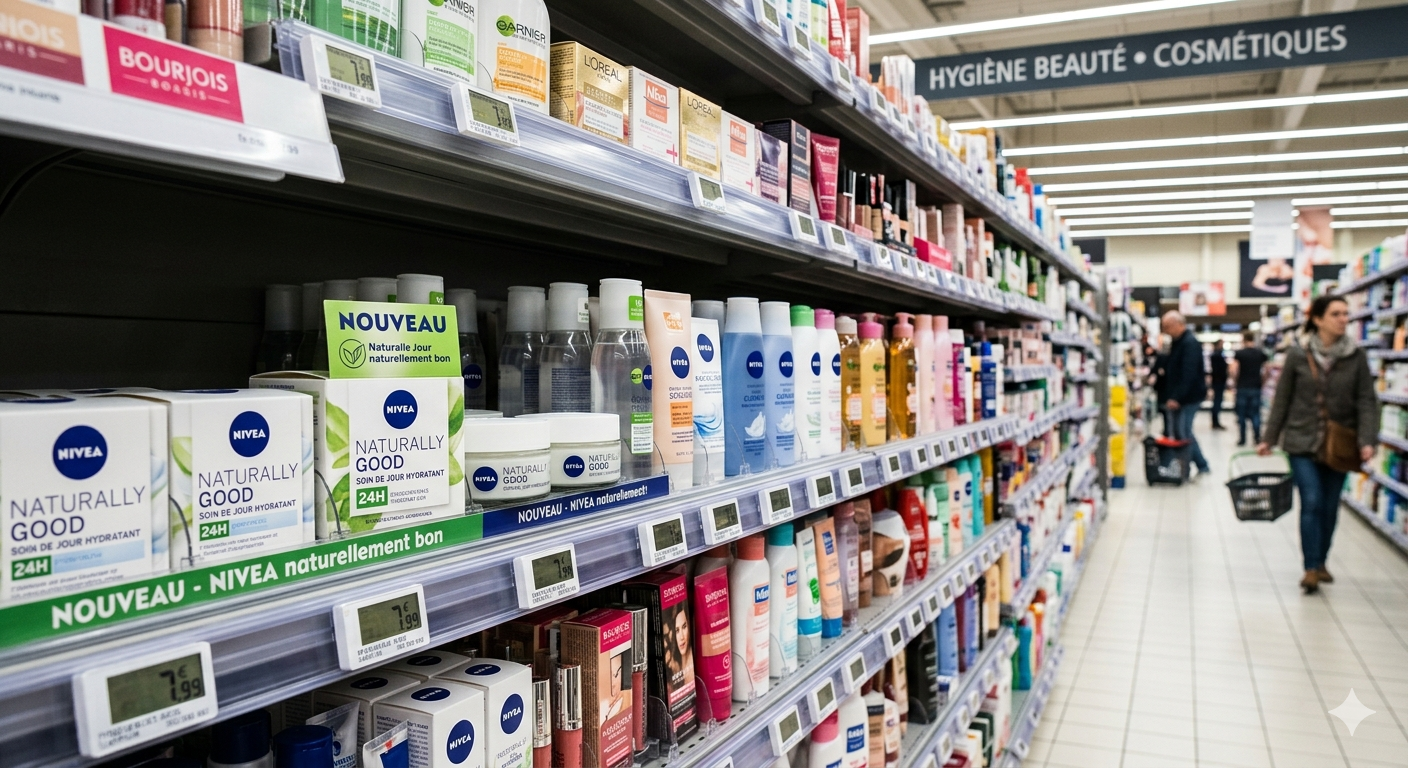
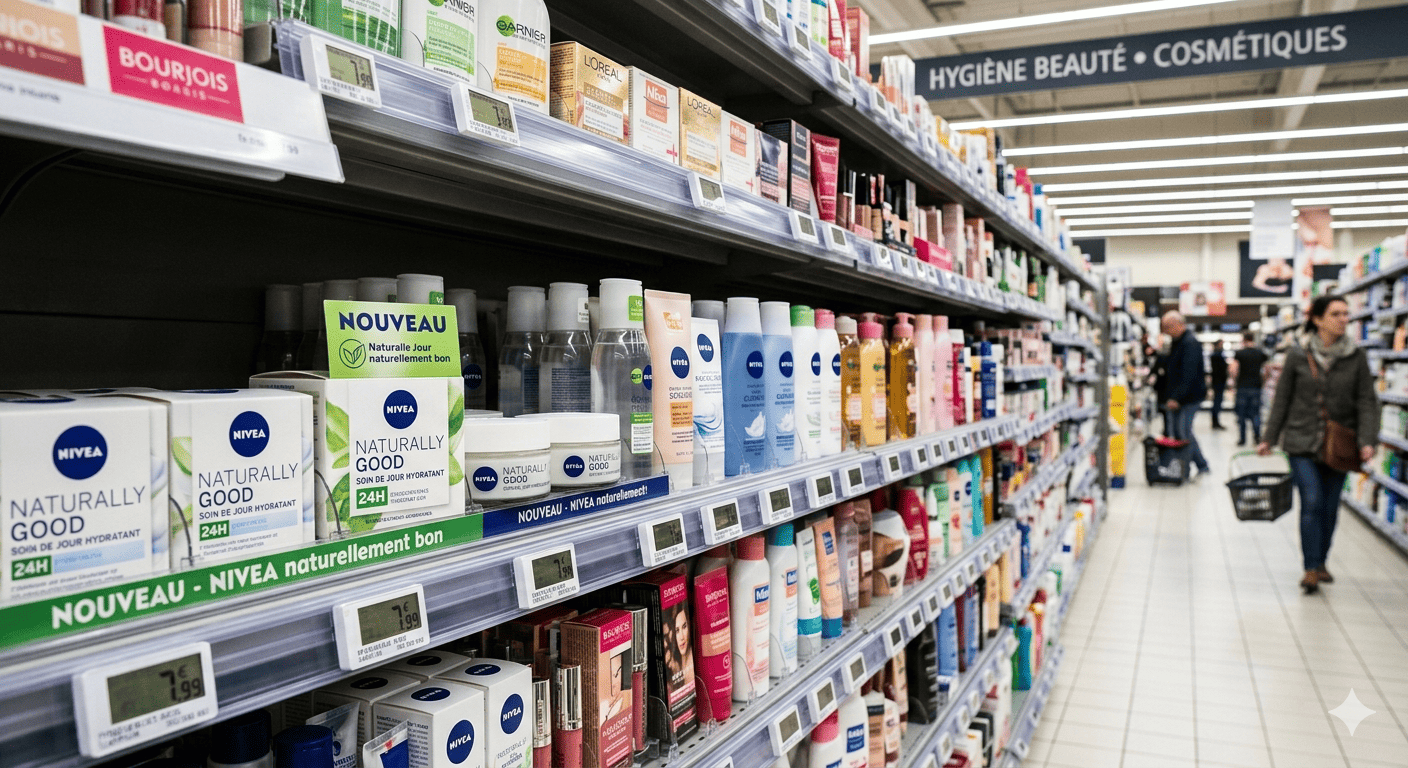
UX/recruteur — LinkedIn, CTA CV, stats, aperçu, print, mobile, compression
- 3 pages : LinkedIn dans nav + footer, URL corrigée (hugo-moronval)
- index : bouton "Voir mon CV →" dans le hero + bande de stats chiffrées
- cv : bouton "Télécharger PDF" (window.print) + CSS @media print
- portfolio : aperçu des 5 réalisations en haut + responsive cosmo/rois-visual
- home/index : noindex pour éviter le doublon SEO
- cosmo-rayon.png compressé : 2,4Mo → 600Ko

https://claude.ai/code/session_01KkrzKZNJX2gpPFfacQACqm

diff --git a/portfolio.html b/portfolio.html
@@ -545,7 +545,10 @@ body {
   .case-band { margin: -64px -24px 48px -24px; padding: 40px 24px; }
   .case-band-bg-text { font-size: 28vw; }
   .case-stats-row { flex-wrap: wrap; }
+  .cosmo-visual, .rois-visual { grid-template-columns: 1fr; }
+  .cosmo-photo-slot, .rois-photo-slot { min-height: 240px; }
   .case-items-grid, .skills-grid, .refs-grid { grid-template-columns: 1fr; }
+  .skills-grid .skill-block[style*="span 2"] { grid-column: span 1; }
   .ba-wrap { grid-template-columns: 1fr; }
   .ba-arrow-col { display: none; }
   .steps-grid { grid-template-columns: 1fr; }
@@ -572,6 +575,7 @@ body {
     <a href="index.html" class="nav-link">Accueil</a>
     <a href="cv.html" class="nav-link">CV Digital</a>
     <a href="portfolio.html" class="nav-link active">Portfolio</a>
+    <a href="https://www.linkedin.com/in/hugo-moronval/" class="nav-link" target="_blank" rel="noopener">LinkedIn</a>
     <a href="mailto:moronval.hugo@gmail.com" class="nav-link">Contact</a>
   </div>
   <div class="nav-status">
@@ -621,6 +625,38 @@ body {
     <span class="ticker-item">Management d'équipe <span>·</span></span>
     <span class="ticker-item">Identité visuelle <span>·</span></span>
     <span class="ticker-item">Campagnes omnicanales <span>·</span></span>
+  </div>
+</div>
+
+<!-- ══ APERÇU ══ -->
+<div style="padding:48px 48px 0;border-bottom:1px solid var(--border);">
+  <div style="font-size:10px;font-weight:600;letter-spacing:4px;text-transform:uppercase;color:var(--accent);margin-bottom:24px;">Réalisations · En un coup d'œil</div>
+  <div style="display:grid;grid-template-columns:repeat(5,1fr);gap:2px;margin-bottom:0;">
+    <div style="padding:24px 20px;background:var(--surface);border:1px solid var(--border);">
+      <div style="font-size:10px;font-weight:600;letter-spacing:2px;color:var(--ink3);margin-bottom:8px;">03 · 2012–2019</div>
+      <div style="font-family:'Bricolage Grotesque',sans-serif;font-weight:800;font-size:16px;text-transform:uppercase;margin-bottom:6px;">Cosmogroup</div>
+      <div style="font-size:12px;color:var(--ink2);">Brand Manager Europe · 7 ans</div>
+    </div>
+    <div style="padding:24px 20px;background:var(--surface);border:1px solid var(--border);">
+      <div style="font-size:10px;font-weight:600;letter-spacing:2px;color:var(--ink3);margin-bottom:8px;">04 · 2019–2023</div>
+      <div style="font-family:'Bricolage Grotesque',sans-serif;font-weight:800;font-size:16px;text-transform:uppercase;margin-bottom:6px;">HPC Adlis</div>
+      <div style="font-size:12px;color:var(--ink2);">Direction Mkg & Commercial</div>
+    </div>
+    <div style="padding:24px 20px;background:var(--surface);border:1px solid var(--border);">
+      <div style="font-size:10px;font-weight:600;letter-spacing:2px;color:var(--ink3);margin-bottom:8px;">05 · 2020–2025</div>
+      <div style="font-family:'Bricolage Grotesque',sans-serif;font-weight:800;font-size:16px;text-transform:uppercase;margin-bottom:6px;">Les 3 Rois</div>
+      <div style="font-size:12px;color:var(--ink2);">Co-gérant · P&amp;L &amp; Marque</div>
+    </div>
+    <div style="padding:24px 20px;background:var(--surface);border:1px solid var(--border);">
+      <div style="font-size:10px;font-weight:600;letter-spacing:2px;color:var(--ink3);margin-bottom:8px;">06 · 2023–2024</div>
+      <div style="font-family:'Bricolage Grotesque',sans-serif;font-weight:800;font-size:16px;text-transform:uppercase;margin-bottom:6px;">Carré Rond</div>
+      <div style="font-size:12px;color:var(--ink2);">Directeur d'agence</div>
+    </div>
+    <div style="padding:24px 20px;background:var(--surface);border:1px solid var(--border);">
+      <div style="font-size:10px;font-weight:600;letter-spacing:2px;color:var(--ink3);margin-bottom:8px;">06b · 2021–2022</div>
+      <div style="font-family:'Bricolage Grotesque',sans-serif;font-weight:800;font-size:16px;text-transform:uppercase;margin-bottom:6px;">EPSI</div>
+      <div style="font-size:12px;color:var(--ink2);">Resp. Entreprises · École</div>
+    </div>
   </div>
 </div>
 
@@ -1289,7 +1325,7 @@ body {
         </div>
         <div class="contact-row">
           <span class="contact-label">LinkedIn</span>
-          <a href="https://www.linkedin.com/in/hugomoronval" target="_blank" rel="noopener" class="contact-value">Hugo Moronval</a>
+          <a href="https://www.linkedin.com/in/hugo-moronval/" target="_blank" rel="noopener" class="contact-value">Hugo Moronval</a>
         </div>
         <div class="contact-row">
           <span class="contact-label">Localisation</span>
@@ -1311,6 +1347,7 @@ body {
   <nav class="footer-nav">
     <a href="index.html" class="footer-link">Accueil</a>
     <a href="cv.html" class="footer-link">CV Digital</a>
+    <a href="https://www.linkedin.com/in/hugo-moronval/" class="footer-link" target="_blank" rel="noopener">LinkedIn</a>
     <a href="mailto:moronval.hugo@gmail.com" class="footer-link">Contact</a>
   </nav>
   <div class="footer-year">© 2026</div>

diff --git a/index.html b/index.html
@@ -330,6 +330,18 @@ body:has(.card:hover) .cursor-ring { width: 64px; height: 64px; opacity: 1; }
   letter-spacing: 3px;
 }
 
+/* ══ STATS STRIP ══ */
+.stats-strip { display: flex; border-bottom: 1px solid var(--border); }
+.stat-item { flex: 1; padding: 32px 40px; border-right: 1px solid var(--border); }
+.stat-item:last-child { border-right: none; }
+.stat-num { font-family: 'Bricolage Grotesque', sans-serif; font-weight: 800; font-size: clamp(28px, 3.5vw, 48px); color: var(--ink); line-height: 1; margin-bottom: 8px; }
+.stat-num span { color: var(--accent); }
+.stat-lbl { font-size: 10px; font-weight: 500; letter-spacing: 2px; text-transform: uppercase; color: var(--ink3); }
+
+/* ══ HERO CTA ══ */
+.hero-cta { display: inline-flex; align-items: center; gap: 10px; font-size: 11px; font-weight: 600; letter-spacing: 2px; text-transform: uppercase; color: var(--black); background: var(--accent); text-decoration: none; padding: 14px 28px; margin-top: 28px; transition: background .3s, color .3s; }
+.hero-cta:hover { background: var(--ink); color: var(--bg); }
+
 @keyframes ticker {
   from { transform: translateX(0); }
   to { transform: translateX(-50%); }
@@ -731,6 +743,7 @@ body:has(.card:hover) .cursor-ring { width: 64px; height: 64px; opacity: 1; }
   <div class="nav-links">
     <a href="cv.html" class="nav-link">CV Digital</a>
     <a href="portfolio.html" class="nav-link">Portfolio</a>
+    <a href="https://www.linkedin.com/in/hugo-moronval/" class="nav-link" target="_blank" rel="noopener">LinkedIn</a>
     <a href="mailto:moronval.hugo@gmail.com" class="nav-link">Contact</a>
   </div>
   <div class="nav-status">
@@ -752,17 +765,40 @@ body:has(.card:hover) .cursor-ring { width: 64px; height: 64px; opacity: 1; }
   </h1>
 
   <div class="hero-bottom">
-    <p class="hero-bio">
-      10 ans d'impact concret au service des marques.<br>
-      <strong>De la vision stratégique à l'exécution terrain</strong> —<br>
-      là où l'idée rencontre le résultat.
-    </p>
+    <div>
+      <p class="hero-bio">
+        10 ans d'impact concret au service des marques.<br>
+        <strong>De la vision stratégique à l'exécution terrain</strong> —<br>
+        là où l'idée rencontre le résultat.
+      </p>
+      <a href="cv.html" class="hero-cta">Voir mon CV →</a>
+    </div>
     <div class="hero-scroll">
       <span>Scroll</span>
       <div class="hero-scroll-line"></div>
     </div>
   </div>
 </section>
+
+<!-- ══ STATS STRIP ══ -->
+<div class="stats-strip">
+  <div class="stat-item">
+    <div class="stat-num">10<span>+</span></div>
+    <div class="stat-lbl">Ans d'expérience</div>
+  </div>
+  <div class="stat-item">
+    <div class="stat-num">5</div>
+    <div class="stat-lbl">Marques développées</div>
+  </div>
+  <div class="stat-item">
+    <div class="stat-num"><span>+</span>600K€</div>
+    <div class="stat-lbl">CA généré</div>
+  </div>
+  <div class="stat-item">
+    <div class="stat-num">40<span>+</span></div>
+    <div class="stat-lbl">Pays · Europe</div>
+  </div>
+</div>
 
 <!-- ══ TICKER ══ -->
 <div class="ticker">
@@ -883,7 +919,7 @@ body:has(.card:hover) .cursor-ring { width: 64px; height: 64px; opacity: 1; }
         <span class="footer-contact-label">Email</span>
         <span class="footer-contact-value">moronval.hugo@gmail.com</span>
       </a>
-      <a href="https://www.linkedin.com/in/hugomoronval" class="footer-contact" target="_blank" rel="noopener">
+      <a href="https://www.linkedin.com/in/hugo-moronval/" class="footer-contact" target="_blank" rel="noopener">
         <span class="footer-contact-label">LinkedIn</span>
         <span class="footer-contact-value">Hugo Moronval</span>
       </a>

diff --git a/cv.html b/cv.html
@@ -370,6 +370,19 @@ body {
   text-transform: uppercase; color: rgba(245,242,236,.25);
 }
 
+/* ══ PRINT ══ */
+@media print {
+  .nav, .ticker, .photo-watermark, .vertical-name-1, .vertical-name-2,
+  .cursor, .cursor-ring, .footer, button { display: none !important; }
+  body { background: white; color: black; cursor: auto; font-size: 11pt; }
+  .hero { background: white; padding: 20px 0 16px; border-bottom: 2px solid #1A1A1A; }
+  .hero-name { font-size: 48pt; }
+  .body-wrap { grid-template-columns: 1fr 260px; }
+  .main-col, .sidebar-col { padding: 16px; border: none; }
+  a { color: inherit; text-decoration: none; }
+  .exp-item, .skill-group { break-inside: avoid; }
+}
+
 /* ══ RESPONSIVE ══ */
 @media (max-width: 900px) {
   .nav { padding: 20px 24px; }
@@ -403,6 +416,7 @@ body {
     <a href="index.html" class="nav-link">Accueil</a>
     <a href="cv.html" class="nav-link active">CV Digital</a>
     <a href="portfolio.html" class="nav-link">Portfolio</a>
+    <a href="https://www.linkedin.com/in/hugo-moronval/" class="nav-link" target="_blank" rel="noopener">LinkedIn</a>
     <a href="mailto:moronval.hugo@gmail.com" class="nav-link">Contact</a>
   </div>
   <div class="nav-status">
@@ -427,7 +441,8 @@ body {
       <span class="hero-contact-item"><strong>Hazebrouck (59)</strong> · Mobile région lilloise</span>
       <a href="tel:+33782246610" class="hero-contact-item">07 82 24 66 10</a>
       <a href="mailto:moronval.hugo@gmail.com" class="hero-contact-item">moronval.hugo@gmail.com</a>
-      <a href="https://www.linkedin.com/in/hugomoronval" target="_blank" rel="noopener" class="hero-contact-item">LinkedIn · Hugo Moronval</a>
+      <a href="https://www.linkedin.com/in/hugo-moronval/" target="_blank" rel="noopener" class="hero-contact-item">LinkedIn · Hugo Moronval</a>
+      <button onclick="window.print()" class="hero-contact-item" style="background:var(--accent);color:var(--black);border:none;cursor:pointer;padding:10px 20px;font-family:inherit;font-size:11px;font-weight:600;letter-spacing:2px;text-transform:uppercase;margin-top:8px;display:inline-flex;align-items:center;gap:8px;">↓ Télécharger PDF</button>
     </div>
   </div>
 </header>
@@ -745,6 +760,7 @@ body {
   <nav class="footer-nav">
     <a href="index.html" class="footer-link">Accueil</a>
     <a href="portfolio.html" class="footer-link">Portfolio</a>
+    <a href="https://www.linkedin.com/in/hugo-moronval/" class="footer-link" target="_blank" rel="noopener">LinkedIn</a>
     <a href="mailto:moronval.hugo@gmail.com" class="footer-link">Contact</a>
   </nav>
   <div class="footer-year">© 2026</div>

diff --git a/home/index.html b/home/index.html
@@ -3,6 +3,7 @@
 <head>
 <meta charset="UTF-8">
 <meta name="viewport" content="width=device-width, initial-scale=1.0">
+<meta name="robots" content="noindex, nofollow">
 <title>Hugo Moronval — Portfolio &amp; CV</title>
 <meta name="description" content="Hugo Moronval · Marketing &amp; Commercial · Branding &amp; Marketing Opérationnel">
 <link href="https://fonts.googleapis.com/css2?family=Bebas+Neue&family=Barlow+Condensed:wght@600;700;800&family=Cormorant+Garamond:ital,wght@0,300;0,400;0,600;1,300&family=Outfit:wght@200;300;400;500;600;700&display=swap" rel="stylesheet">
